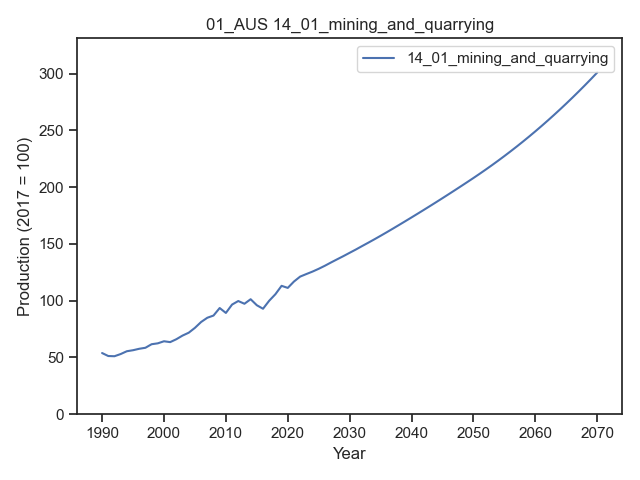
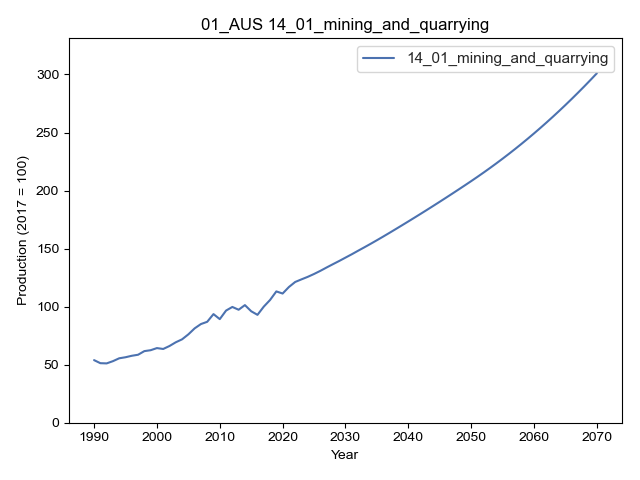
function definitions

diff --git a/workflow/scripts/d2_projection_adjust.py b/workflow/scripts/d2_projection_adjust.py
@@ -1,8 +1,11 @@
 # Adjustment function
-
-# Set working directory to be the project folder
+# Set working directory to be the project folder 
 import os
 import re
+
+# Grab relevant functions from 'useful_functions.py'
+from useful_functions import modify_trajectory
+from useful_functions import generate_smooth_curve
 
 wanted_wd = 'industry_model_9th_edition'
 os.chdir(re.split(wanted_wd, os.getcwd())[0] + wanted_wd)
@@ -21,15 +24,65 @@ industry_production = pd.read_csv('./data/industry_projections/interim_all_secto
 # Define years dictionary tp adjust later 
 years = [i for i in range(1980, 2101, 1)]
 
+def industry_traj(economy = '01_AUS', 
+            sub1sectors = '14_01_mining_and_quarrying', 
+            sub2sectors = 'x',
+            proj_start_year = 2021,
+            shape = 'increase',
+            magnitude = 1.5,
+            data = industry_production):
+    
+    # Where to save files
+    industry_final = './data/industry_final/{}/'.format(economy)
+
+    if not os.path.isdir(industry_final):
+        os.makedirs(industry_final)
+    
+    # Relevant dataframe grab
+    refined_df = data[(data['economy_code'] == economy) &
+                    (data['sub1sectors'] == sub1sectors) &
+                    (data['sub2sectors'] == sub2sectors)].copy().reset_index(drop = True)
+    
+    # Set year as index
+    refined_df = refined_df.set_index('year')
+    # Updated column with refined estimates
+    refined_df['adj_value'] = np.nan
+
+    # Want to build a new trajectory: up, down, bottom, top, constant
+    traj_end = refined_df.loc[proj_start_year, 'value'] * magnitude
+
+    # Generate new trajectory 
+    outcome = generate_smooth_curve(num_points = max(years) - proj_start_year + 1, 
+                          shape = shape,
+                          start_value = refined_df.loc[proj_start_year, 'value'],
+                          end_value = traj_end)
+    
+    print(type(outcome))
+
+    # Isolate time series
+    adj_series = refined_df.copy()[['value']].squeeze().to_dict()
+
+    # Now generate modify current trajectory
+
+
+industry_traj()
+
+
 def industry_adj(economy = '01_AUS', 
             sub1sectors = '14_01_mining_and_quarrying', 
             sub2sectors = 'x',
             adjustment = True,
+            adjust = {},
             proj_start_year = 2021,
             increment = 0.001,
-            data = industry_production,
-            adjust = dict):
+            data = industry_production):
 
+    # Where to save files
+    industry_final = './data/industry_final/{}/'.format(economy)
+
+    if not os.path.isdir(industry_final):
+        os.makedirs(industry_final)
+    
     # Relevant dataframe grab
     refined_df = data[(data['economy_code'] == economy) &
                     (data['sub1sectors'] == sub1sectors) &
@@ -66,40 +119,133 @@ def industry_adj(economy = '01_AUS',
 
         refined_df = refined_df.copy().reset_index()
 
-        fig, ax = plt.subplots()
-
-        sns.lineplot(data = refined_df,
-                    x = 'year',
-                    y = 'value', 
-                    ax = ax)
-        
-        sns.lineplot(data = refined_df,
-                    x = 'year',
-                    y = 'adj_value', 
-                    ax = ax)
-        
-        plt.show()
-
     else:
         for year in refined_df.index:
             if year < proj_start_year:
                 refined_df.loc[year, 'adj_value'] = refined_df.loc[year, 'value']
 
             else:
-                refined_df.loc[year, 'adj_value'] = refined_df.loc[year - 1, 'value'] * (1 + increment)
+                refined_df.loc[year, 'adj_value'] = refined_df.loc[year - 1, 'adj_value'] * (1 + increment)
 
         refined_df = refined_df.copy().reset_index()
+    
+    # Now chart the result
+    chart_df = refined_df.copy().melt(id_vars = ['year', 'economy', 'economy_code', 'series', 'units', 'sub1sectors', 'sub2sectors'], 
+                                      value_vars = ['value', 'adj_value'], 
+                                      value_name = 'production_value')
 
-        fig, ax = plt.subplots()
+    fig, ax = plt.subplots()
 
-        sns.lineplot(data = refined_df,
-                    x = 'year',
-                    y = 'value', 
-                    ax = ax)
-        
-        sns.lineplot(data = refined_df,
-                    x = 'year',
-                    y = 'adj_value', 
-                    ax = ax)    
+    sns.set_theme(style = 'ticks')
 
-industry_adj(economy = '03_CDA', adjust = {2025: 1.15, 2029: 1.25}, adjustment = True) 
+    sns.lineplot(data = chart_df,
+                x = 'year',
+                y = 'production_value',
+                hue = 'variable')
+
+    ax.set(title = economy + ' ' + sub1sectors + ' ' + sub2sectors,
+           xlabel = 'Year',
+           ylabel = 'Production index (2017 = 100)')
+
+    plt.legend(title = '')
+
+    plt.tight_layout()
+    plt.show()
+
+    if sub2sectors == 'x':
+        fig.savefig(industry_final + economy + '_' + sub1sectors + '.png')
+    elif sub1sectors == '14_03_manufacturing':
+        fig.savefig(industry_final + economy + '_' + sub2sectors + '.png')
+    else:
+        pass
+    
+    plt.close()
+
+# Test function runs
+industry_adj(economy = '05_PRC',
+             adjustment = False,
+             adjust = {}, 
+             increment = -0.01,
+             proj_start_year = 2023, 
+             sub1sectors = '14_03_manufacturing', 
+             sub2sectors = '14_03_01_iron_and_steel') 
+
+industry_adj(economy = '01_AUS', adjust = {2025: 1.15, 2029: 1.25}, adjustment = True, increment = 0.0) 
+
+
+
+# CHAT GPT suggestions
+
+def modify_trajectory(time_series, chosen_year, new_trajectory):
+    """
+    Modifies the trajectory from a chosen year in the annual time series.
+
+    Args:
+        time_series (dict): The original annual time series.
+        chosen_year (int): The year to overwrite the trajectory.
+        new_trajectory (list): The new trajectory shape to replace the chosen year.
+
+    Returns:
+        dict: The modified annual time series with the new trajectory shape.
+    """
+    modified_series = {}
+
+    for year, value in time_series.items():
+        if year < chosen_year:
+            modified_series[year] = value
+        elif year == chosen_year:
+            modified_series[year] = value
+        else:
+            modified_series[year] = new_trajectory.pop(0)
+
+    return modified_series
+
+
+import numpy as np
+from scipy.interpolate import interp1d
+
+def generate_smooth_curve(num_points, shape, start_value):
+    """
+    Generates a smooth curve based on the specified shape.
+
+    Args:
+        num_points (int): The number of points to generate in the smooth curve.
+        shape (str): The shape of the smooth curve ('increase', 'decrease',
+                     'constant', 'peak', or 'bottom').
+
+    Returns:
+        numpy.ndarray: The smooth curve values.
+    """
+    x = np.linspace(start_value, 1, num_points)
+    y = np.zeros(num_points)
+
+    if shape == 'increase':
+        y = x
+
+    elif shape == 'decrease':
+        y = 1 - x
+
+    elif shape == 'constant':
+        y = np.ones(num_points)
+
+    elif shape == 'peak':
+        y[:num_points//2] = x[:num_points//2]
+        y[num_points//2:] = 1 - x[num_points//2:]
+
+    elif shape == 'bottom':
+        y[:num_points//2] = 1 - x[:num_points//2]
+        y[num_points//2:] = x[num_points//2:]
+
+    f = interp1d(x, y, kind='cubic')
+    interpolated_curve = f(np.linspace(0, 1, len(x)))
+
+    return interpolated_curve
+
+
+num_points = 10
+shape = 'decrease'
+
+smooth_curve = generate_smooth_curve(num_points, shape)
+print(smooth_curve)
+
+ 

diff --git a/workflow/scripts/useful_functions.py b/workflow/scripts/useful_functions.py
@@ -1,0 +1,59 @@
+# Useful functions
+
+def modify_trajectory(time_series, chosen_year, new_trajectory):
+    """
+    Modifies the trajectory from a chosen year in the annual time series.
+
+    Args:
+        time_series (dict): The original annual time series.
+        chosen_year (int): The year to overwrite the trajectory.
+        new_trajectory (list): The new trajectory shape to replace the chosen year.
+
+    Returns:
+        dict: The modified annual time series with the new trajectory shape.
+    """
+    modified_series = {}
+
+    for year, value in time_series.items():
+        if year < chosen_year:
+            modified_series[year] = value
+        elif year == chosen_year:
+            modified_series[year] = value
+        else:
+            modified_series[year] = new_trajectory.pop(0)
+
+    return modified_series
+
+
+import numpy as np
+from scipy.interpolate import interp1d
+
+def generate_smooth_curve(num_points, shape, start_value, end_value):
+    """
+    Generates a smooth curve based on the specified shape.
+
+    Args:
+        num_points (int): The number of points to generate in the smooth curve.
+        shape (str): The shape of the smooth curve ('increase', 'decrease',
+                     'constant', 'peak', or 'bottom').
+
+    Returns:
+        numpy.ndarray: The smooth curve values.
+    """
+    x = np.linspace(start_value, end_value, num_points)
+    y = np.zeros(num_points)
+
+    if (shape == 'increase') | (shape == 'decrease'):
+        y = x
+
+    elif shape == 'constant':
+        y = np.linspace(start_value, start_value, num_points)
+
+    elif (shape == 'peak') | (shape == 'bottom'):
+        y[:num_points//2] = x[:num_points//2]
+        y[num_points//2:] = x[:num_points//2][::-1]
+
+    f = interp1d(x, y, kind = 'cubic')
+    interpolated_curve = f(np.linspace(start_value, end_value, len(x)))
+
+    return interpolated_curve

diff --git a/config/config_apr2023.py b/config/config_apr2023.py
@@ -40,6 +40,7 @@ import math
 import itertools
 from itertools import chain, combinations
 import warnings
+from scipy.interpolate import interp1d
 
 # Set directory
 os.chdir(re.split('industry_model_9th_edition', os.getcwd())[0] + 'industry_model_9th_edition')
